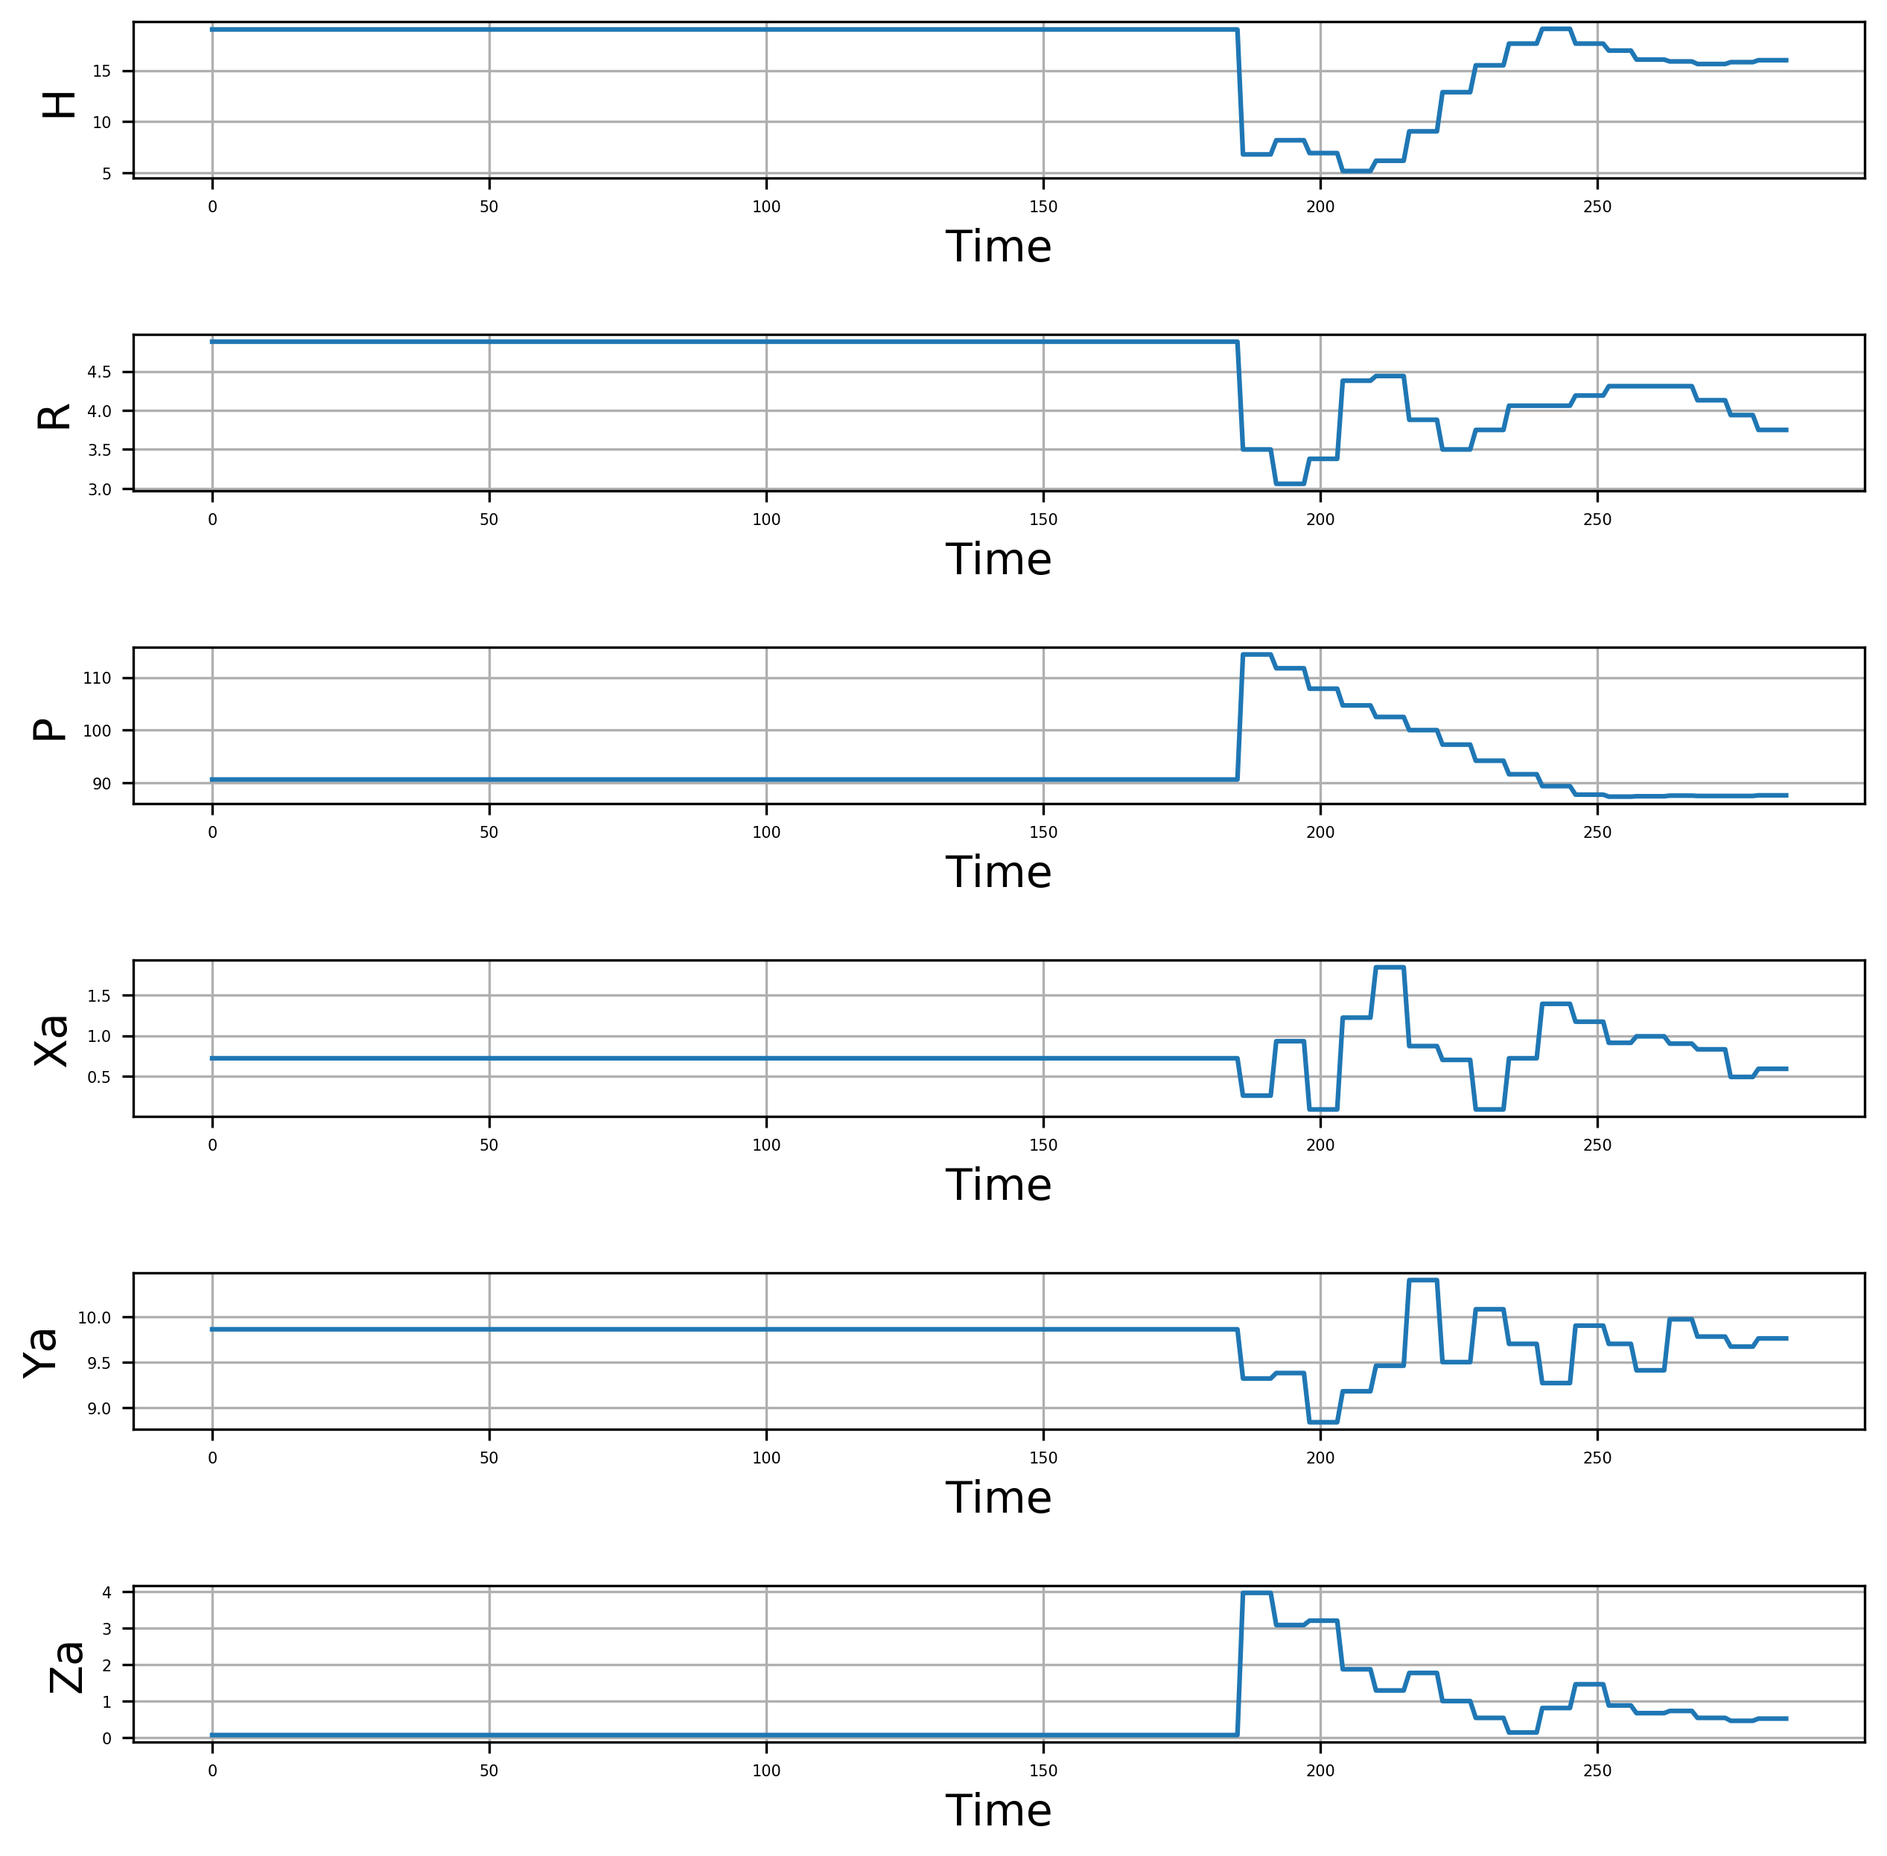
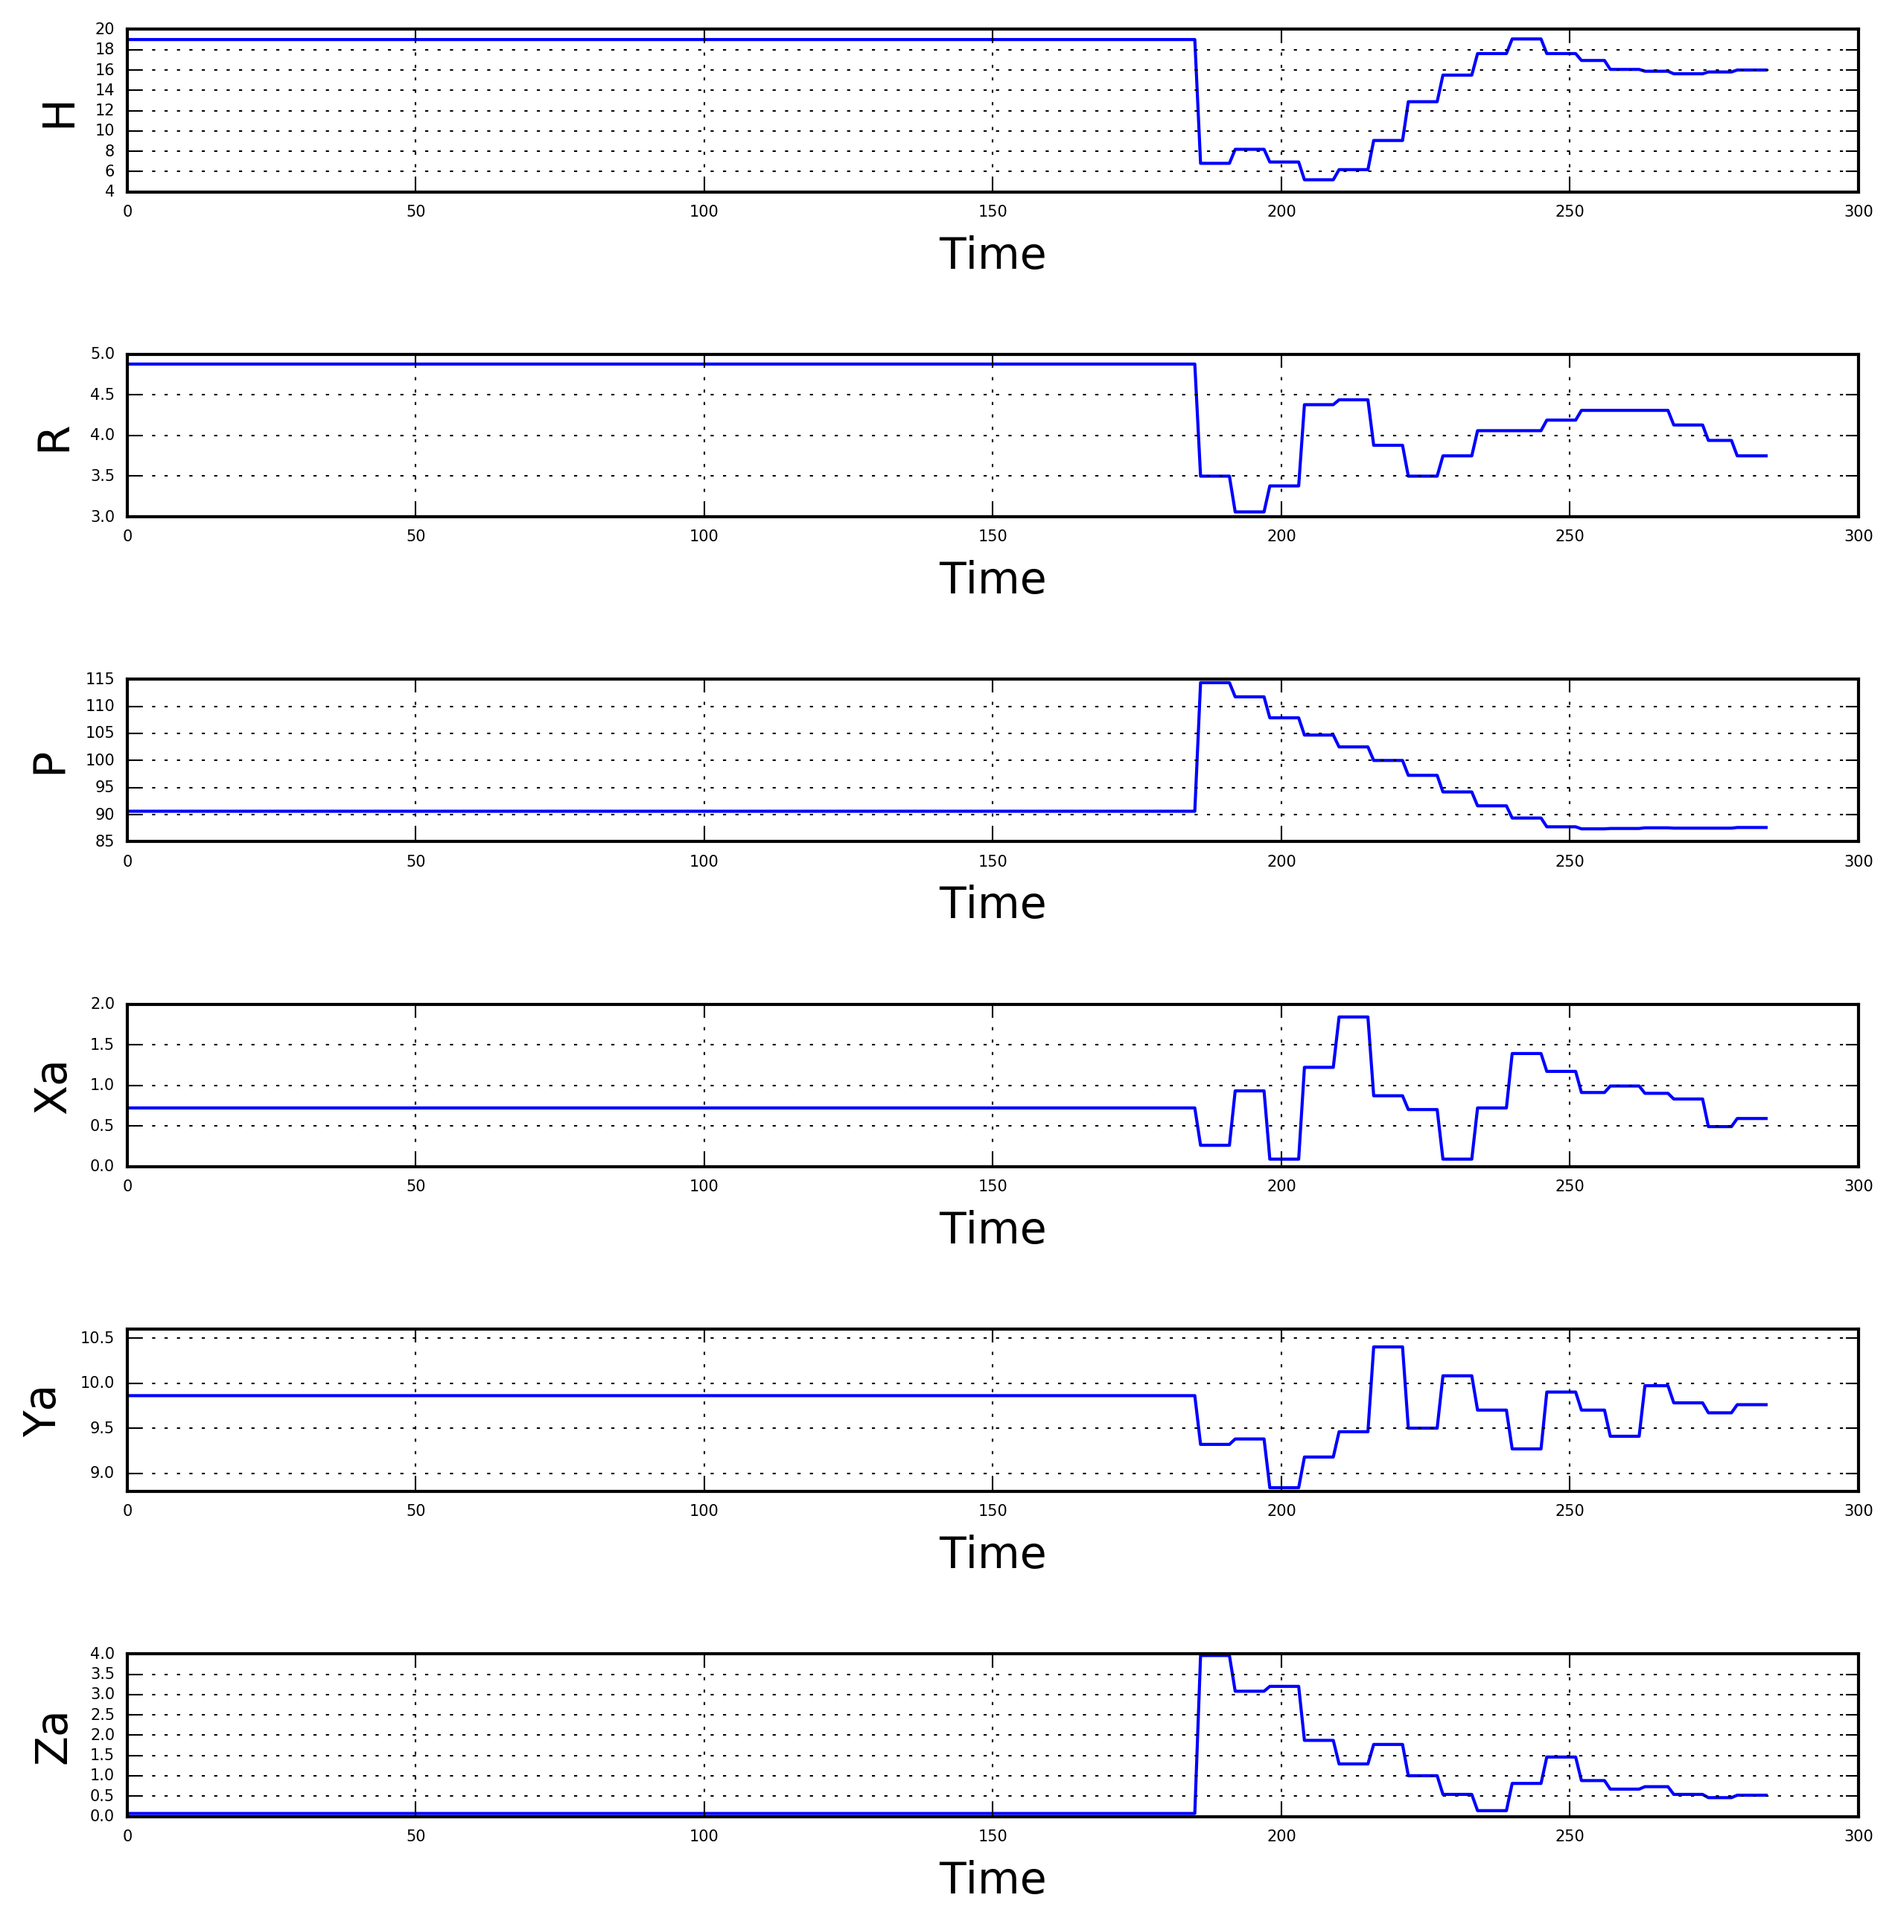
add new codes for visualize nikola's data

Changed region(s): [[0.0, 0.6798, 0.9976, 0.9888], [0.0, 0.3399, 0.9976, 0.6489], [0.0, 0.0, 0.9976, 0.309]]

diff --git a/Visualization/pca_multi_placement_nikoladata.py b/Visualization/pca_multi_placement_nikoladata.py
@@ -1,0 +1,272 @@
+import numpy as np
+import code
+from sklearn.decomposition import PCA
+import pandas as pd
+import matplotlib.pyplot as plt
+from matplotlib.pyplot import figure
+
+import random
+import re
+colors_list = ['blue', 'red', 'green', 'purple', 'magenta', 'orange', 'black']
+
+
+
+def filetering(input):
+	return re.sub("[^\d\.]", "", input)
+
+def load_6dim_data(DATAPATH):
+	outdata = []
+	f  = open(DATAPATH, 'r')
+	data =  f.readlines()
+	for line in data:
+		print(line)
+		if len(line.split(' '))==19 and line.find('H')>-1 and line.find('R')>-1 and line.find('P')>-1 and line.find('aX')>-1 and line.find('aY')>-1 and line.find('aZ')>-1 and line.find('\r\n')>-1:
+			h = filetering(line.split(' ')[2])
+			r = filetering(line.split(' ')[5])
+			p = filetering(line.split(' ')[8])
+			xa = filetering(line.split(' ')[11])
+			ya = filetering(line.split(' ')[14])
+			za = filetering(line.split(' ')[17])
+			outdata.append([float(h),float(r),float(p),float(xa),float(ya),float(za)])
+	return outdata
+
+def load_6dim_data_nikola(DATAPATH):
+	outdata = []
+	f  = open(DATAPATH, 'r')
+	data =  f.readlines()
+	for line in data:
+		print(line)
+		if len(line.split(' '))==19 and line.find('H')>-1 and line.find('R')>-1 and line.find('P')>-1 and line.find('aX')>-1 and line.find('aY')>-1 and line.find('aZ')>-1:
+			code.interact(local=locals())
+			h = filetering(line.split(' ')[2])
+			r = filetering(line.split(' ')[5])
+			p = filetering(line.split(' ')[7])
+			xa = filetering(line.split(' ')[10])
+			ya = filetering(line.split(' ')[13])
+			za = filetering(line.split(' ')[16])
+			outdata.append([float(h),float(r),float(p),float(xa),float(ya),float(za)])
+	return outdata
+
+
+def load_data(DATAPATH):
+	f  = open(DATAPATH, 'r')
+	data =  f.readlines()
+	data = '\t '.join(data).replace('\n', ' ')
+	data = data.split('\t')
+	Xdata = []
+	Ydata = []
+	Zdata = []
+	for line in data:
+		if line.find('X')>-1:
+			Xdata.append(line.split(':')[1].split(' ')[1])
+		elif line.find('Y')>-1:
+			Ydata.append(line.split(':')[1].split(' ')[1])
+		elif line.find('Z')>-1:
+			Zdata.append(line.split(':')[1].split(' ')[1])
+
+	outdata = []
+	for i in range(len(Xdata)-2):
+		if len(Xdata[i])>1 and len(Ydata[i])>1 and len(Zdata[i])>1:
+			outdata.append([float(Xdata[i]),float(Ydata[i]),float(Zdata[i])])
+
+	return outdata
+
+
+def load_fack_data():
+	outdata = []
+	for i in range(1000):
+		x = random.random()
+		y = random.random()
+		z = random.random()
+		outdata.append([x,y,z, x,y,z])
+	return outdata
+
+
+def load_fack_6dim_data():
+	outdata = []
+	for i in range(1000):
+		x1 = random.random()
+		y1 = random.random()
+		z1 = random.random()
+		x2 = random.random()
+		y2 = random.random()
+		z2 = random.random()
+		outdata.append([x1,y1,z1,x2,y2,z2])
+	return outdata
+
+
+def load_fack_6dim_data2():
+	outdata = []
+	for i in range(1000):
+		x1 = random.random()
+		outdata.append([x1,x1,x1,x1,x1,x1])
+	return outdata
+
+def load_fack_6dim_data3():
+	outdata = []
+	for i in range(1000):
+		x1 = random.random()
+		y1 = random.random()
+		outdata.append([x1,x1,x1,x1,y1,y1])
+	return outdata
+
+def load_fack_6dim_data4():
+	outdata = []
+	for i in range(1000):
+		x1 = random.random()
+		y1 = random.random()
+		outdata.append([x1,y1,x1,y1,x1,y1])
+	return outdata
+
+def load_fack_6dim_data5():
+	outdata = []
+	for i in range(1000):
+		x1 = random.random()
+		y1 = random.random()
+		outdata.append([y1,x1,y1,x1,y1,x1])
+	return outdata
+
+
+# pose_name = ['Good Lower', 'Good Upper', 'Bad Lower', 'Bad Upper']
+# pose_name = ['Good Lower', 'Bad Lower']
+pose_name = ['Good Upper', 'Bad Upper']
+def pca_process(data, data_num):
+	num_placement = len(data_num)
+	# print(data_num)
+	# training: learn a projection matrix
+	pca = PCA(n_components=2)
+	# apply the projection matrix, and get 2-dim data
+	newData = pca.fit_transform(data)
+	fig = plt.figure()
+
+	plt.xlabel('Principal Component 1', fontsize = 15)
+	plt.ylabel('Principal Component 2', fontsize = 15)
+
+	for p in range(num_placement):
+		start_idx = np.sum(data_num[:(p+1)])-data_num[p]
+		to_idx = np.sum(data_num[:(p+1)])
+		label_name = '%s'%(pose_name[p])
+		plt.scatter(newData[start_idx:to_idx:10,0],newData[start_idx:to_idx:10,1],s=100, c=colors_list[p],alpha=0.2, label=label_name)
+	plt.legend(loc='center left', bbox_to_anchor=(1, 0.5))
+	plt.tight_layout()
+	plt.grid()
+	plt.savefig('pca_projection.png', dpi=300, format='png', bbox_inches='tight')
+	plt.show()
+
+def pca_process_classification(data, data_num):
+	num_placement = len(data_num)
+	# print(data_num)
+	# training: learn a projection matrix
+	pca = PCA(n_components=2)
+	# apply the projection matrix, and get 2-dim data
+	newData = pca.fit_transform(data)
+	fig = plt.figure()
+
+	plt.xlabel('Principal Component 1', fontsize = 15)
+	plt.ylabel('Principal Component 2', fontsize = 15)
+	color_id = 0
+	for p in range(num_placement):
+		if p <=2:
+			label_name = 'Correct Posture'
+			color_id = 0
+		else:
+			label_name = 'Incorrect Posture'
+			color_id = 1
+		start_idx = np.sum(data_num[:(p+1)])-data_num[p]
+		to_idx = np.sum(data_num[:(p+1)])
+		# label_name = 'placement %d'%(p)
+		plt.scatter(newData[start_idx:to_idx,0],newData[start_idx:to_idx,1],c=colors_list[color_id],alpha=0.2, label=label_name)
+	plt.legend(loc='center left', bbox_to_anchor=(1, 0.5))
+	plt.tight_layout()
+	plt.grid()
+	plt.savefig('binary_classification.png', dpi=300, format='png', bbox_inches='tight')
+	plt.show()
+
+def time_plot(data,fname):
+	fig = plt.figure(figsize=(10,10))
+
+	plt.subplot(6,1,1)
+	plt.tick_params(labelsize=5)
+	plt.xlabel('Time', fontsize = 14)
+	plt.ylabel('H', fontsize = 14)
+	h = []
+	for item in data:
+		h.append(item[0])
+	plt.plot(h)
+	plt.grid()
+
+	plt.subplot(6,1,2)
+	plt.tick_params(labelsize=5)
+	plt.xlabel('Time', fontsize = 14)
+	plt.ylabel('R', fontsize = 14)
+	r = []
+	for item in data:
+		r.append(item[1])
+	plt.plot(r)
+	plt.grid()
+
+	plt.subplot(6,1,3)
+	plt.tick_params(labelsize=5)
+	plt.xlabel('Time', fontsize = 14)
+	plt.ylabel('P', fontsize = 14)
+	p = []
+	for item in data:
+		p.append(item[2])
+	plt.plot(p)
+	plt.grid()
+
+	plt.subplot(6,1,4)
+	plt.tick_params(labelsize=5)
+	plt.xlabel('Time', fontsize = 14)
+	plt.ylabel('Xa', fontsize = 14)
+	xa = []
+	for item in data:
+		xa.append(item[3])
+	plt.plot(xa)
+	plt.grid()
+
+	plt.subplot(6,1,5)
+	plt.tick_params(labelsize=5)
+	plt.xlabel('Time', fontsize = 14)
+	plt.ylabel('Ya', fontsize = 14)
+	ya = []
+	for item in data:
+		ya.append(item[4])
+	plt.plot(ya)
+	plt.grid()
+
+	plt.subplot(6,1,6)
+	plt.tick_params(labelsize=5)
+	plt.xlabel('Time', fontsize = 14)
+	plt.ylabel('Za', fontsize = 14)
+	za = []
+	for item in data:
+		za.append(item[5])
+	plt.plot(za)
+	plt.grid()
+	plt.subplots_adjust(wspace=1, hspace=1)
+	plt.savefig(fname, dpi=300, format='png', bbox_inches='tight')
+	# plt.show()
+
+def main():
+	# load data
+	# data1 = load_6dim_data('../Data_output_txt_MotionShield/output_to_txt/goodDataLower1.txt')
+	data1 = load_6dim_data('../Data_output_txt_MotionShield/output_to_txt/goodDataUpper1.txt')
+	# data2 = load_6dim_data('../Data_output_txt_MotionShield/output_to_txt/badDataLower1.txt')
+	data2 = load_6dim_data('../Data_output_txt_MotionShield/output_to_txt/badDataUpper1.txt')
+	# data4 = load_fack_6dim_data3()
+	# data5 = load_fack_6dim_data4()
+	# concatenate all data from different placements
+
+	# time_plot(data1, 'goodDataLower.png')
+	time_plot(data1, 'goodDataUpper.png')
+	# time_plot(data2, 'badDataLower.png')
+	time_plot(data2, 'badDataUpper.png')
+	concatenated_data = np.concatenate((data1 ,data2))
+	data_num = [len(data1), len(data2)]
+
+    # run pca
+	pca_process(concatenated_data, data_num)
+
+if __name__ == '__main__':
+    main()
